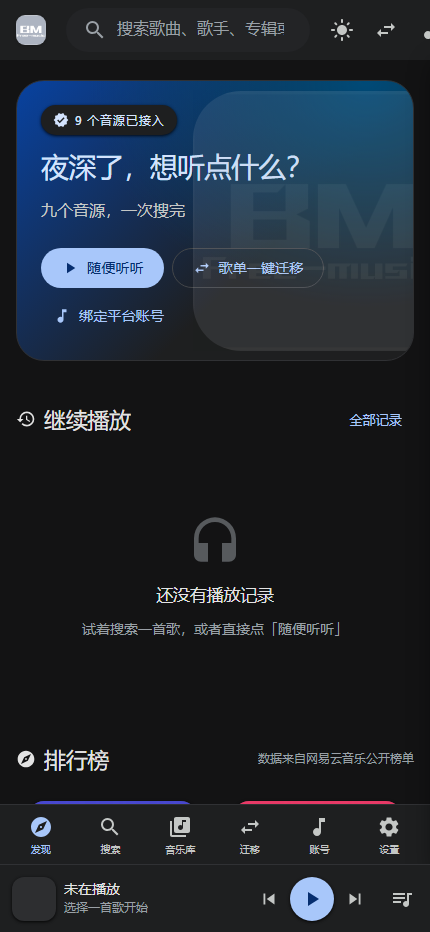
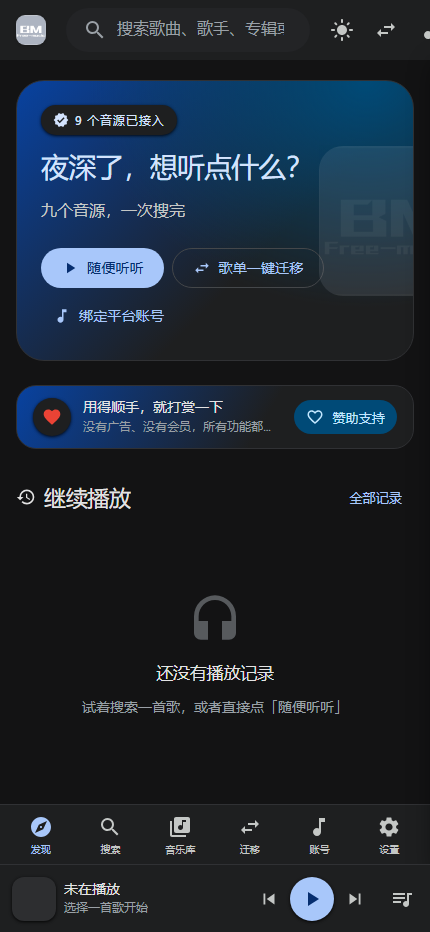
feat: v1.1.0 动画打磨 + 版本号修正
- versionCode 110 / versionName 1.1.0（原来还是 1 / 1.0.0，覆盖安装会冲突）
- 页面转场按导航方向左右滑入
- 按钮/图标/chip 按压反馈
- 图片渐显，消除加载闪烁
- 磁贴悬停上浮
- 播放页封面入场动画
- 首页装饰图收敛尺寸与透明度
- 账号页安全说明压缩成一行

diff --git a/src/js/views/accounts.js b/src/js/views/accounts.js
@@ -80,21 +80,9 @@ export async function render(root) {
         ${BINDABLE_SOURCES.map((key) => platformCard(key, accounts[key], native)).join('')}
       </div>
 
-      <section class="section" style="margin-top:var(--sp-8)">
-        <div class="section__head"><h2 class="section__title">关于凭证安全</h2></div>
-        <div class="about-card">
-          ${icon('info', 'icon-lg')}
-          <div>
-            <div style="font:var(--text-h3);margin-bottom:6px">只存在你自己的设备上</div>
-            <p style="color:var(--on-surface-muted);font-size:14px;line-height:1.7">
-              ${native
-                ? '网页登录在应用内完成，Cookie 由系统 WebView 的 CookieManager 抓取后写入本机 localStorage，不经过任何第三方服务器。'
-                : '所有 Cookie 仅写入浏览器 localStorage，并通过本地代理（127.0.0.1）转发给对应平台。'}
-              关掉页面即失效，清空应用数据即彻底删除。请不要在公共设备上绑定账号。
-            </p>
-          </div>
-        </div>
-      </section>
+      <p class="muted-note">
+        ${icon('info', 'icon-xs')} 凭证只存在本机，清空应用数据即删除
+      </p>
     </div>`;
 
   root.querySelector('#grid')?.addEventListener('click', async (e) => {

diff --git a/src/css/base.css b/src/css/base.css
@@ -198,6 +198,48 @@ img.is-broken {
 
 .view { animation: view-in 320ms var(--ease-emphasized) both; }
 
+/* --- 页面转场：按导航方向左右滑入 --- */
+.view.is-forward { animation: view-in-right 300ms var(--ease-emphasized) both; }
+.view.is-back    { animation: view-in-left 300ms var(--ease-emphasized) both; }
+@keyframes view-in-right {
+  from { opacity: 0; transform: translate3d(18px, 0, 0); }
+  to   { opacity: 1; transform: none; }
+}
+@keyframes view-in-left {
+  from { opacity: 0; transform: translate3d(-18px, 0, 0); }
+  to   { opacity: 1; transform: none; }
+}
+
+/* --- 图片渐显，避免闪烁 --- */
+.track__cover,
+.tile__art img,
+.pl-head__cover img,
+.np-art img {
+  animation: img-fade 420ms var(--ease-decel) both;
+}
+@keyframes img-fade {
+  from { opacity: 0; transform: scale(1.02); }
+  to   { opacity: 1; transform: none; }
+}
+
+/* --- 按压反馈 --- */
+.btn:active,
+.icon-btn:active,
+.chip:active,
+.rail__item:active,
+.transport__btn:active,
+.track:active {
+  transform: scale(0.97);
+  transition-duration: 80ms;
+}
+
+/* --- 平滑滚动 --- */
+.tracklist,
+.tile-grid,
+.shelf {
+  -webkit-overflow-scrolling: touch;
+}
+
 .track {
   animation: row-in 260ms var(--ease-standard) backwards;
   animation-delay: calc(var(--i, 0) * 16ms);

diff --git a/src/css/views.css b/src/css/views.css
@@ -55,12 +55,13 @@
 }
 .hero__deco {
   position: absolute;
-  right: -40px;
+  right: -56px;
   top: 50%;
   transform: translateY(-50%);
-  width: 260px;
-  height: 260px;
-  opacity: .16;
+  width: clamp(150px, 19vw, 240px);
+  height: clamp(150px, 19vw, 240px);
+  border-radius: 24px;
+  opacity: .13;
   pointer-events: none;
 }
 
@@ -763,6 +764,13 @@
   height: 100%;
   object-fit: cover;
 }
+.np-art {
+  animation: art-pop 420ms var(--ease-emphasized) both;
+}
+@keyframes art-pop {
+  from { opacity: 0; transform: scale(.94) translateY(12px); }
+  to   { opacity: 1; transform: none; }
+}
 
 .np-info {
   display: flex;
@@ -1048,3 +1056,12 @@
 }
 .np-artist.is-link { cursor: pointer; }
 .np-artist.is-link:hover { color: var(--primary); text-decoration: underline; }
+
+.muted-note {
+  display: flex;
+  align-items: center;
+  gap: 6px;
+  margin-top: var(--sp-6);
+  font: var(--text-caption);
+  color: var(--on-surface-muted);
+}

diff --git a/src/js/app.js b/src/js/app.js
@@ -83,8 +83,21 @@ const VIEWS = {
 
 let cleanup = null;
 
+const NAV_ORDER = ['discover', 'search', 'library', 'transfer', 'accounts', 'settings'];
+let lastNavIndex = 0;
+
 async function route() {
   const { name, params } = parseHash();
+
+  // 按导航位置判断前进还是后退，给页面转场定方向
+  const navIdx = NAV_ORDER.indexOf(name);
+  let direction = '';
+  if (navIdx >= 0) {
+    if (navIdx > lastNavIndex) direction = 'is-forward';
+    else if (navIdx < lastNavIndex) direction = 'is-back';
+    lastNavIndex = navIdx;
+  }
+
   currentRoute = name;
 
   // 高亮导航
@@ -106,6 +119,10 @@ async function route() {
   }
 
   hydrateIcons(root);
+  if (direction) {
+    const v = root.querySelector('.view');
+    if (v) v.classList.add(direction);
+  }
   mainEl().scrollTop = 0;
   document.title = name === 'discover' ? 'BM Free Music' : titleOf(name);
 }

diff --git a/src/js/views/settings.js b/src/js/views/settings.js
@@ -190,7 +190,7 @@ export async function render(root) {
           <div class="about-card" style="border:none;padding:0;width:100%">
             <img src="./assets/icon-192.png" alt="" style="border-radius:14px;box-shadow:var(--shadow-1)">
             <div style="flex:1;min-width:0">
-              <div style="font:var(--text-h3);margin-bottom:4px">BM Free Music <span style="color:var(--on-surface-muted);font-weight:400;font-size:13px">v1.0.0</span></div>
+              <div style="font:var(--text-h3);margin-bottom:4px">BM Free Music <span style="color:var(--on-surface-muted);font-weight:400;font-size:13px">v1.1.0</span></div>
               <p style="color:var(--on-surface-muted);font-size:13px;line-height:1.7">
                 多平台聚合音乐播放器 · Material 3 设计语言 · 支持 PWA 安装
               </p>

diff --git a/src/css/components.css b/src/css/components.css
@@ -104,7 +104,16 @@
   position: relative;
   min-width: 0;
 }
-.tile:hover { background: var(--surface-tint); }
+.tile {
+  transition: transform 260ms var(--ease-emphasized),
+              background 200ms var(--ease-standard);
+  will-change: transform;
+}
+.tile:hover {
+  background: var(--surface-tint);
+  transform: translateY(-4px);
+}
+.tile:active { transform: translateY(-1px) scale(0.985); }
 
 .tile__art {
   position: relative;

diff --git a/src/js/views/discover.js b/src/js/views/discover.js
@@ -44,8 +44,7 @@ export async function render(root) {
             ${icon('account')} 绑定平台账号
           </a>
         </div>
-        <img class="hero__deco" src="./assets/icon-512.png" alt=""
-             style="border-radius:48px;opacity:.13">
+        <img class="hero__deco" src="./assets/icon-512.png" alt="">
       </section>
 
       <section class="sponsor-entry">

diff --git a/Releases/release-notes.md b/Releases/release-notes.md
@@ -1,5 +1,7 @@
 # BM Free Music v1.1.0
 
+> versionCode 110 / versionName 1.1.0
+
 ## 这次更新
 
 **新图标** — 换成 BM Free—music 的正式标识。
